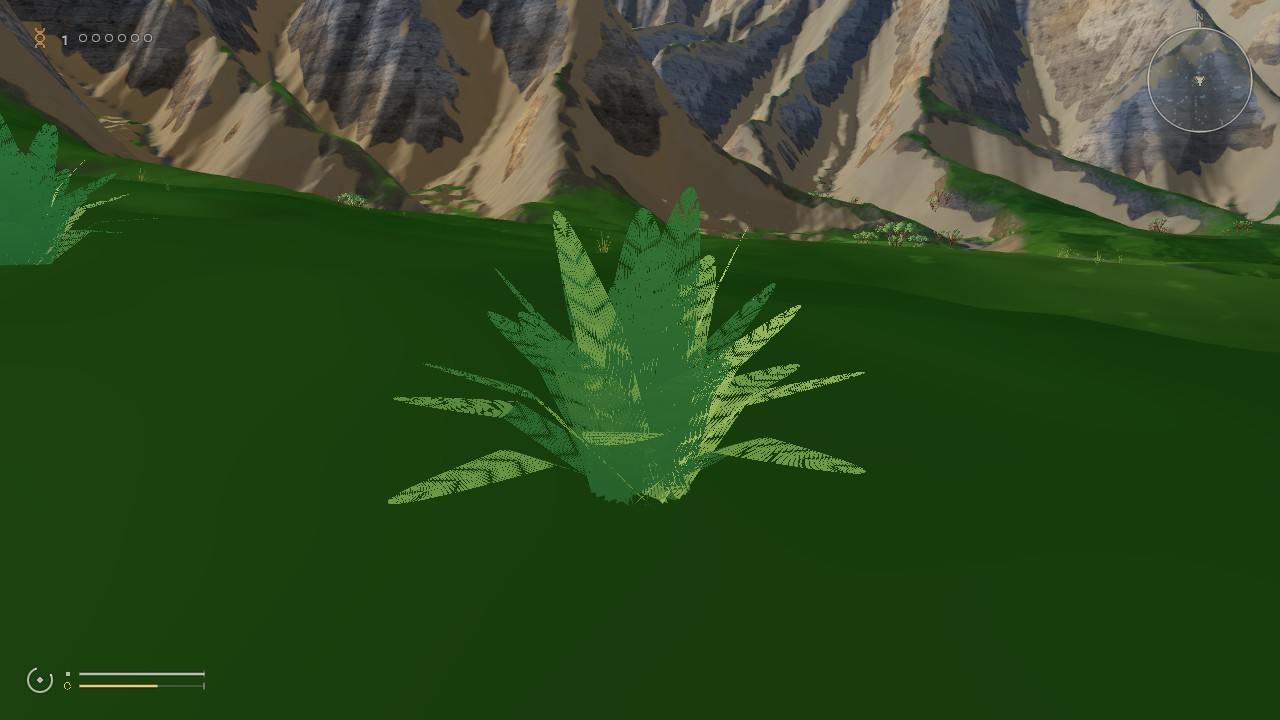
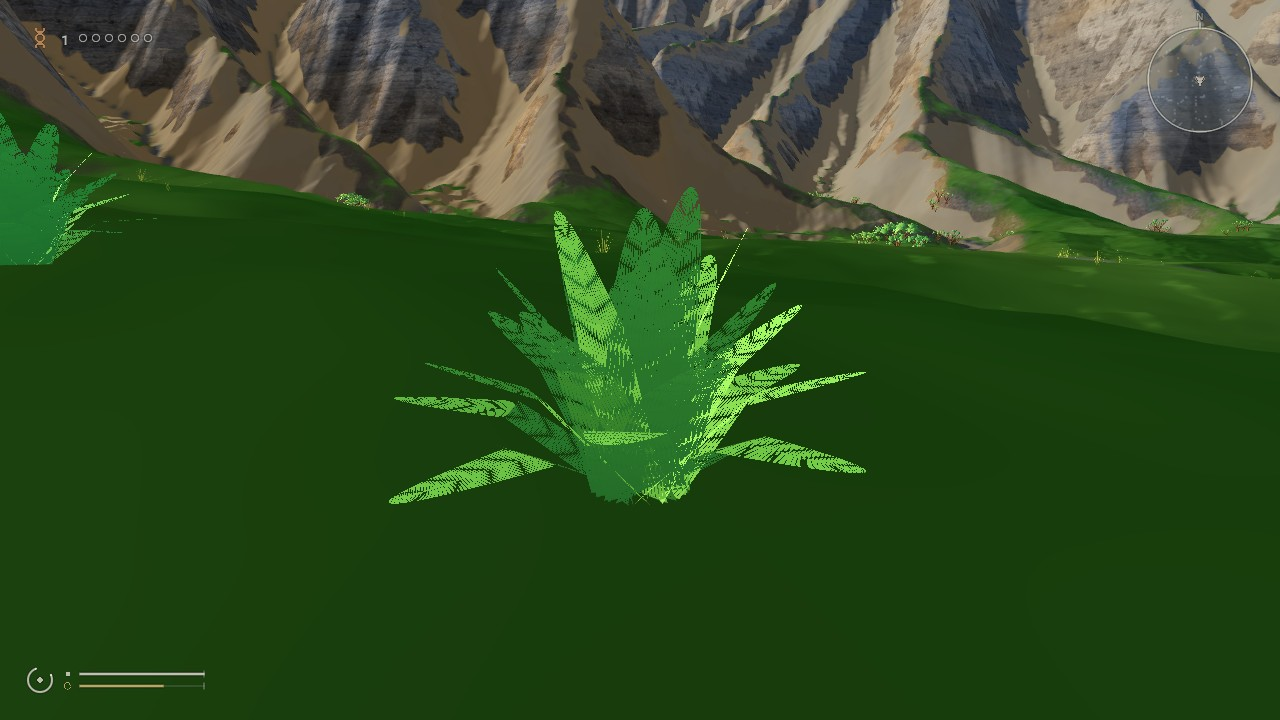
docs(art): flora pass 3 report, budgets and re-captured evidence with pass 2 vs 3 comparisons

diff --git a/docs/FLORA-ART3-REPORT.md b/docs/FLORA-ART3-REPORT.md
@@ -1,0 +1,50 @@
+# Flora art pass 3
+
+The seed-1 island uses 1,216,048 near triangles on low, 74,738 below the pass-2 report’s budget. The pass retains the same placements and batch counts at all three tiers. The nest adds one mesh with 9,376 triangles.
+
+## Intended commits
+
+| Proposed commit | Changes |
+| --- | --- |
+| `feat(godot): grow curved limbs from tapered branch collars` | Near trees and shrubs follow cubic Bézier paths. Each child starts inside its parent, follows the parent tangent through a swollen collar and tapers towards the fork. Adjacent spans share ring normals. Recipe droop ranges from 0.18 for Caramillo to 0.46 for the arched Trenza de ribera. Low uses five primary limbs, five cards per terminal spray and cheaper rounded berries. Far limbs retain a single span. |
+| `feat(godot): model the insulated Snowshield rosette` | A bark column occupies 39% of the plant’s height, about 0.59–0.98 m at the recipe’s 1.5–2.5 m scale. Two spirals carry 34 hanging buff leaves and 30 living blades. The living blades cup around a keel and rise more steeply towards the bud. Interpolated normals, fine lengthwise silver hairs and a grazing-angle sheen distinguish the hairy tissue from the narrow red-purple UV-screening margins. The retained skirt represents frost insulation. |
+| `feat(godot): weave the nest rim and model colony relief` | Dry Paja dulce straw wraps around 32 crossing twig ribs in 15 staggered courses. Alternating strand heights expose crossings down both slopes of the 45 cm bank. Down collects inside the rim around a scraped earth floor. All materials share one nest surface. The colony shader uses derivatives of its existing grain to perturb the lighting normal, with 0.65 mm relief for sulfur crust, 1.1 mm for ember crust and 2.8 mm for beacon moss. Relief fades at transparent edges and with distance. |
+| `test(godot): cover limb droop, alpine foliage and colony relief` | Flora checks exercise mesh determinism, the droop response, Snowshield column height, dead skirt, cupped normals and margin colour, per-colony relief, and the nest lining and floor. |
+
+## Geometry budget
+
+Godot 4.7.2, seed 1, default density and normal stage reservations. The headless terrain benchmark counts indexed triangles times instance count over resident MultiMesh batches, including rocks. Near and far have separate visibility ranges. The nest is a separate MeshInstance3D at every tier.
+
+| Tier | Placed props | Instance slots | MultiMesh batches | Near triangles | Far triangles | Nest triangles / surfaces |
+| --- | ---: | ---: | ---: | ---: | ---: | ---: |
+| Low | 5,081 | 6,001 | 2,528 | 1,216,048 | 131,506 | 9,376 / 1 |
+| Medium | 8,421 | 10,084 | 2,848 | 4,199,096 | 238,014 | 9,376 / 1 |
+| High | 12,802 | 15,416 | 2,501 | 8,630,930 | 374,432 | 9,376 / 1 |
+
+The incoming worktree measured 1,400,610 near and 133,946 far triangles on low before this pass. The earlier pass-2 report recorded 1,290,786 near and 132,626 far before its integration edits. Medium and high keep eight primary limbs and spend more geometry on branch curvature. GPU cost and chase-distance readability need a display run.
+
+## Verification
+
+`make godot-test` passed 832 checks and `make godot-ui-test` passed 732, both with zero failures. All three changed GDScripts passed Godot’s headless `--check-only`. The headless engine loaded both shader resources and returned their uniform lists. The terrain benchmark built all three tiers. The test suites also emit sandbox socket diagnostics, intentional invalid-input errors and engine cleanup warnings.
+
+## Capture checklist for Sonnet
+
+Use the seed-stable cameras in `godot/game/tests/flora_evidence.gd` at 1280×720 and match the pass-2 JPG framing. Its arguments are the output directory, tier, terrain mode and comma-separated shot prefixes. Capture the base island first, then switch to volcano mode for the colonies.
+
+- [ ] Compare `forest_floor`, `forest_edge`, `madre_spring` and `tier_crown` against the existing close-ups. Inspect where bark leaves the parent at a fork, especially backlit limbs. Repeat `tier_crown` at low, medium and high and orbit through the near/far transition.
+- [ ] Capture `snow_rosettes`, `snow_slope` and `plant_rodela_de_nieve`. Look for a visible stem between hanging leaves, a silver outer crown and a greener upright bud. Inspect purple margins and fine hair at close range and check for shimmer while backing away.
+- [ ] Capture `nest_ground`, `nest_high` and `valley_chase_z0` with the player for scale. Check straw crossing the twig ribs on the near slope, pale down inside the lip, the bare scrape in the centre and the rim silhouette at chase distance.
+- [ ] In volcano mode capture `lava_crust`, `plant_costra_de_azufre` and `plant_musgo_faro`. Compare the colony centre and feathered edge at noon and under grazing light. Orbit for reversed relief, shimmer and apparent lift off the rock.
+- [ ] Run GL Compatibility on hardware and repeat on Forward+. Record adapter, resolution, MSAA, shader diagnostics and matched-view GPU and p95 frame times. Pay particular attention to medium/high grove cost and alpha-to-coverage on the low crown.
+
+## Integration review (Claude)
+
+- Budget re-measured with `make godot-terrain-bench-sw TIER=low` (xvfb, llvmpipe): flora on 5,081 placements, 2,528 batches, 1,216,048 near and 131,506 far triangles; flora off 1,530 near. Low is 74,738 near triangles (5.8%) below pass 2 (1,290,786) and 32.7% below v1 (1,805,585), so no further low-tier reduction was needed. llvmpipe frame times were flora on 2,102 ms vs off 2,114 ms at chase and 1,521 vs 1,487 ms at mid; this is software rendering and says nothing about an AMD iGPU.
+- Suites after integration: godot-test 832 checks, godot-ui-test 732, godot-play-test 217, all 0 failures.
+- Evidence re-captured at high tier, 1280x720, software GL. `compare3_forest_floor`, `compare3_snow_rosettes`, `compare3_nest_ground` and `compare3_lava_crust` set pass 2 (left) against pass 3 (right). Tree close-ups: `plant_madre_de_agua`, `plant_trenza_de_ribera`, `plant_caramillo`.
+- Fixes from review: the nest bed showed near-black gaps between ribs, so soil went from 594738 to 7b6548; the snow-rosette skirt read as saturated orange, so `dead` went from 80613d to 76603f.
+
+### Honest assessment
+
+Improved: limbs curve and flare out of forks instead of meeting as straight rods; crowns are darker and denser in the backlit forest floor view; the snow rosette is a recognisable plant with a skirt of dead leaves rather than a flower of purple petals; the nest reads as woven twigs on an earth bed.
+Still weak: alpha-to-coverage under SwiftShader shows heavy dither moire on close leaf cards (a software GL artefact, unverified on a GPU); the forest canopy at floor level is quite dark and uniform; the snow skirt is still warmer than natural; the lava crust patch is visually unchanged at the evidence distance; the nest lattice is regular. No hardware GPU timing was done.
